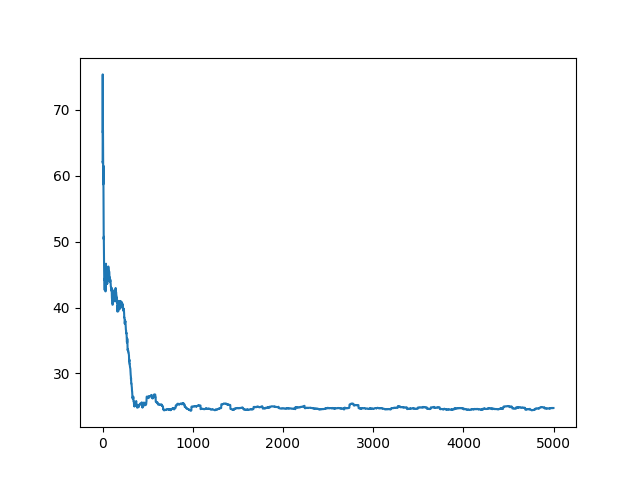
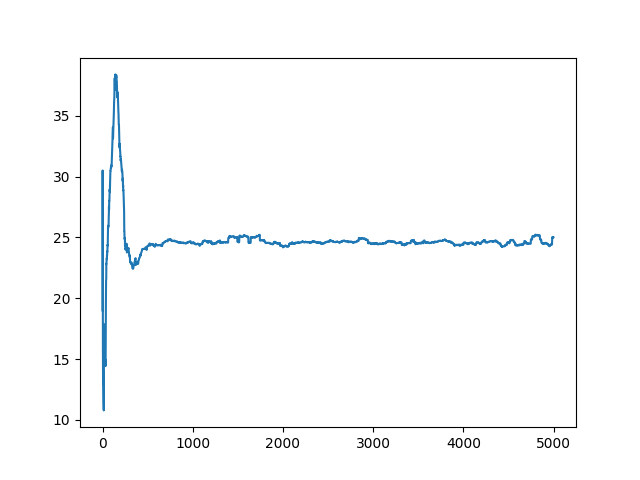
Added reward structure based on visited tiles
reward = # of unique tiles visited / total number of visitable tiles

diff --git a/gymnasium_env/envs/v0_thin_ice_env.py b/gymnasium_env/envs/v0_thin_ice_env.py
@@ -73,7 +73,7 @@ class ThinIceEnv(gym.Env):
         self._n_actions = len(ti.PlayerActions)
         self._n_states = state_num
 
-        self.step_count = 0
+        self.visited_tiles = set()
 
         # Define action and observation space
         self.action_space = spaces.Discrete(self.n_actions)  #randomly select an action
@@ -119,7 +119,7 @@ class ThinIceEnv(gym.Env):
     def reset(self, seed=None, options=None):
         super().reset(seed=seed)
         self.level.reset()
-        self.step_count = 0
+        self.visited_tiles = set()
 
         player_position = self.level.player_position
         player_tile = self.level.get_tile(player_position)
@@ -135,14 +135,12 @@ class ThinIceEnv(gym.Env):
         return obs, info
 
     def step(self, action):
-        self.step_count += 1
         target_reached, position_changed = self.level.perform_action(ti.PlayerActions(action))
 
-        if not position_changed:
-            self.step_count -= 1
+        self.visited_tiles.add(self.level.player_position)
         
-        reward = self.step_count / 55 if position_changed else 0
-        reward = 1 if target_reached else reward
+        reward = len(self.visited_tiles) / self.level.n_visitable_tiles if position_changed else 0
+        reward = reward + 1 if target_reached else reward
         terminated = target_reached
 
         player_position = self.level.player_position
@@ -151,7 +149,7 @@ class ThinIceEnv(gym.Env):
         obs = self._to_state[player_position + (player_tile.tile_type.get_water_mask(), avail_mask)]
 
         if player_tile.tile_type == ti.LevelTileType.WATER:
-            reward = -1
+            reward = 0
             terminated = True
         
         # Debug information

diff --git a/gymnasium_env/envs/v0_thin_ice.py b/gymnasium_env/envs/v0_thin_ice.py
@@ -81,6 +81,7 @@ class Level:
     def __init__(self, level_str: str):
         self._tiles = self.generate_tiles(level_str)
         self._player_position = self.player_start
+        self._n_visitable_tiles = self.get_visitable_tile_count()
     
     def reset(self):
         self._player_position = self.player_start
@@ -122,6 +123,15 @@ class Level:
                 tiles_list.append(row)
         return np.array(tiles_list, dtype=object)
     
+
+    def get_visitable_tile_count(self):
+        count = 0
+        for row in self.tiles:
+            for tile in row:
+                if tile.tile_type in [LevelTileType.FLOOR, LevelTileType.TARGET]:
+                    count += 1
+        return count
+
     # Called in step function, returns True if reached target
     def perform_action(self, action: PlayerActions):         
         new_pos = (self.player_position[0] + action.get_direction()[0], self.player_position[1] + action.get_direction()[1])
@@ -171,6 +181,10 @@ class Level:
     @property
     def n_cols(self):
         return len(self.tiles[0]) if len(self.tiles) > 0 else 0
+    
+    @property
+    def n_visitable_tiles(self):
+        return self._n_visitable_tiles
     
     @property
     def tiles(self):

diff --git a/gymnasium_env/envs/v0_thin_ice_train.py b/gymnasium_env/envs/v0_thin_ice_train.py
@@ -109,8 +109,8 @@ class ThinIceQLearningAgent(ThinIceTrainingAgent):
     
 
 if __name__ == '__main__':
-    agent: ThinIceQLearningAgent = ThinIceQLearningAgent('thin-ice-v0', 'level_4.txt')
-    agent.train(n_episodes=5000, step_size=0.5, gamma=1, epsilon=0.1)
+    agent: ThinIceQLearningAgent = ThinIceQLearningAgent('thin-ice-v0', 'level_9.txt')
+    agent.train(n_episodes=50000, step_size=0.1, gamma=1, epsilon=0.1)
     agent.deploy(render=True)
 
 
